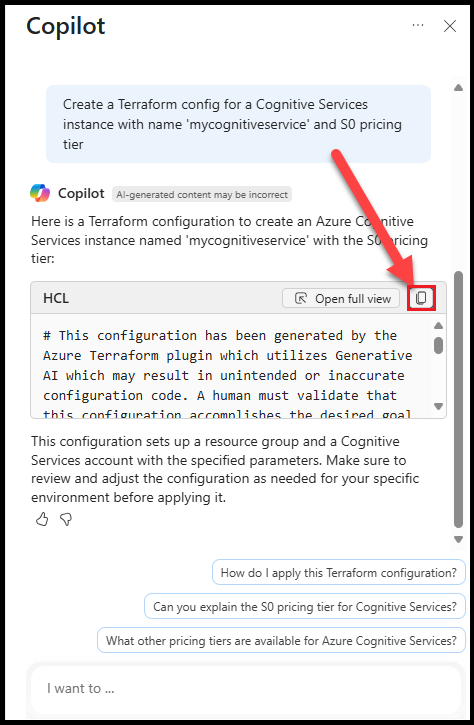
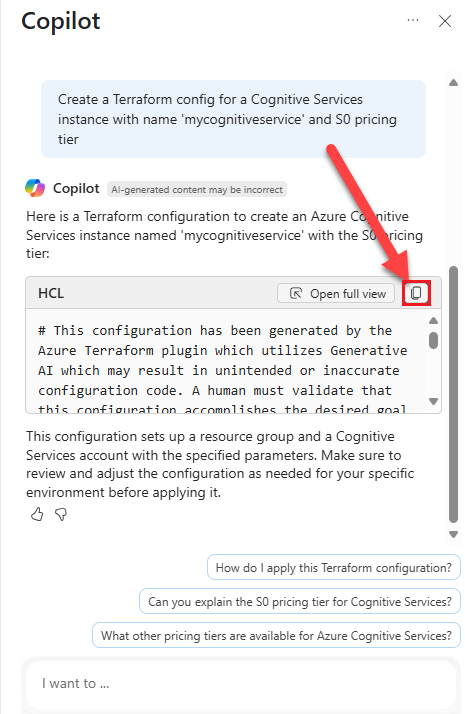
testing border on img 2

Changed region(s): [[0.0, 0.0, 1.0, 1.0]]

diff --git a/articles/terraform/terraform-handler-for-azure-copilot/generate-terraform-configuration-using-copilot.md b/articles/terraform/terraform-handler-for-azure-copilot/generate-terraform-configuration-using-copilot.md
@@ -27,7 +27,7 @@ In this article, you learn how to use Azure Copilot from the Azure portal and fr
 
 1. Select the Copilot icon in the upper right corner.
 
-    :::image type="content" source="./media/generate-terraform-configuration-using-copilot/copilot-in-portal.png" alt-text="Screenshot of the Azure Copilot icon in the Azure portal.":::
+    :::image type="content" source="./media/generate-terraform-configuration-using-copilot/copilot-in-portal.png" border="true" alt-text="Screenshot of the Azure Copilot icon in the Azure portal.":::
 
 1. Enter a Terraform-related prompt such as the following example. 
 
@@ -42,11 +42,11 @@ In this article, you learn how to use Azure Copilot from the Azure portal and fr
 
 1. Once Copilot responds, you can select **Open Full View** to view the configuration code block in full-screen mode.
 
-    :::image type="content" source="./media/generate-terraform-configuration-using-copilot/copilot-open-full-view.png" alt-text="Screenshot of the Azure Copilot full-screen mode in the Azure portal.":::
+    :::image type="content" source="./media/generate-terraform-configuration-using-copilot/copilot-open-full-view.png" border="true" alt-text="Screenshot of the Azure Copilot full-screen mode in the Azure portal.":::
 
 1. Select the Copy icon to copy the new configuration to the clipboard.
 
-    :::image type="content" source="./media/generate-terraform-configuration-using-copilot/copilot-copy.png" alt-text="Screenshot of the Azure Copilot copy icon.":::
+    :::image type="content" source="./media/generate-terraform-configuration-using-copilot/copilot-copy.png" border="true" alt-text="Screenshot of the Azure Copilot copy icon.":::
 
 1. Paste the code into your editor.
 
@@ -56,7 +56,7 @@ In this article, you learn how to use Azure Copilot from the Azure portal and fr
 
 1. From the Nav Bar, select **Extensions**, and search for `copilot` extensions.
 
-    :::image type="content" source="./media/generate-terraform-configuration-using-copilot/vs-code-extensions.png" alt-text="Screenshot of VS Code Extensions icon in the Nav Bar.":::
+    :::image type="content" source="./media/generate-terraform-configuration-using-copilot/vs-code-extensions.png" border="false" alt-text="Screenshot of VS Code Extensions icon in the Nav Bar.":::
 
 1. Ensure that the **GitHub Copilot** extension is installed. If it isn't, install it.
 
@@ -64,7 +64,7 @@ In this article, you learn how to use Azure Copilot from the Azure portal and fr
 
 1. Select **Toggle Chat**.
 
-    :::image type="content" source="./media/generate-terraform-configuration-using-copilot/vs-code-toggle-chat.png" alt-text="Screenshot of the Copilot Toggle Chat option in VS Code.":::
+    :::image type="content" source="./media/generate-terraform-configuration-using-copilot/vs-code-toggle-chat.png" border="false" alt-text="Screenshot of the Copilot Toggle Chat option in VS Code.":::
 
 1. Enter a prompt for a Terraform Configuration that begins with `@azure`. For example, the following prompt creates a Content Delivery Network (CDN) with various settings.
 
@@ -79,15 +79,15 @@ In this article, you learn how to use Azure Copilot from the Azure portal and fr
 
 1. Press **&lt;Enter>**.
 
-    :::image type="content" source="./media/generate-terraform-configuration-using-copilot/vs-code-copilot-prompt.png" alt-text="Screenshot of a Terraform configuration prompt using Copilot in VS Code.":::
+    :::image type="content" source="./media/generate-terraform-configuration-using-copilot/vs-code-copilot-prompt.png" border="false" alt-text="Screenshot of a Terraform configuration prompt using Copilot in VS Code.":::
 
 1. Copilot interactively guides you through the process where it creates the required files for your configuration.
 
-    :::image type="content" source="./media/generate-terraform-configuration-using-copilot/vs-code-copilot-updated-files.png" alt-text="Screenshot of the Copilot generated files in VS Code.":::
+    :::image type="content" source="./media/generate-terraform-configuration-using-copilot/vs-code-copilot-updated-files.png" border="false" alt-text="Screenshot of the Copilot generated files in VS Code.":::
     
 1. Once the files are created or updated, Copilot offers to run the `terraform init` and `terraform validate` commands against the generated configuration.
 
-    :::image type="content" source="./media/generate-terraform-configuration-using-copilot/vs-code-copilot-terraform-commands.png" alt-text="Screenshot of the Copilot option to run various Terraform commands.":::
+    :::image type="content" source="./media/generate-terraform-configuration-using-copilot/vs-code-copilot-terraform-commands.png" border="false" alt-text="Screenshot of the Copilot option to run various Terraform commands.":::
 
 ## Review and use sample Terraform prompts
 
